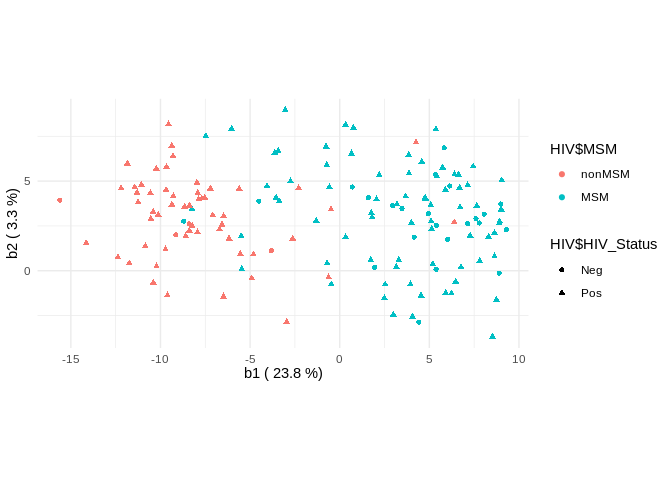
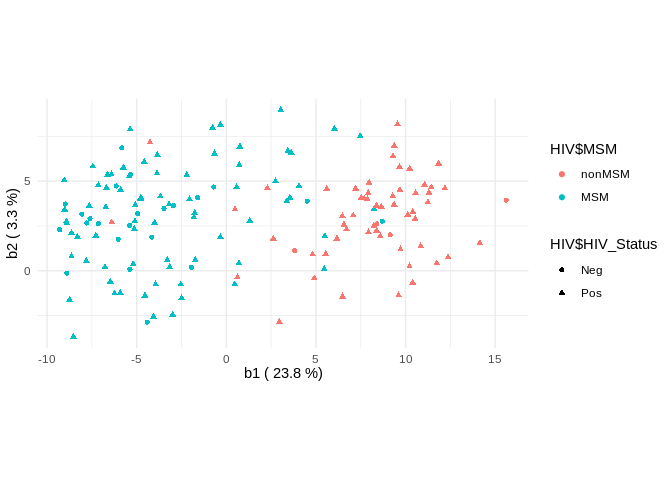
improve readme

diff --git a/README.md b/README.md
@@ -3,34 +3,77 @@
 
 ## Installation
 
-You can install the released version of NearestBalance from
-[CRAN](https://CRAN.R-project.org) with:
+Install dependences if needed:
 
 ``` r
-require(devtools)
-install_bitbucket("knomics/nearestbalance")  
+cran_packages <- c("data.tree", "data.table", "stringr",
+                    "e1071", "ggplot2", "partitions", "devtools")
+cran_packages_to_install <- setdiff(cran_packages, installed.packages())
+install.packages(cran_packages_to_install)
+
+if (! "balance" %in% installed.packages()){
+  devtools::install_github("tpq/balance")
+}
+```
+
+Install the package:
+
+``` r
+devtools::install_bitbucket("knomics/nearestbalance")  
 ```
 
 ## Quick start guide
 
+Please, install several packages to run the examples:
+
+``` r
+packages_for_example <- c("selbal", "zCompositions", "reshape2")
+install.packages(setdiff(packages_for_example, installed.packages()))
+```
+
 Load data for the example
 
-    #> Loading required package: MASS
-    #> Loading required package: NADA
-    #> Loading required package: survival
-    #> 
-    #> Attaching package: 'NADA'
-    #> The following object is masked from 'package:stats':
-    #> 
-    #>     cor
-    #> Loading required package: truncnorm
-    #> No. corrected values:  820
+``` r
+library(NearestBalance)
+library(zCompositions)
+#> Loading required package: MASS
+#> Loading required package: NADA
+#> Loading required package: survival
+#> 
+#> Attaching package: 'NADA'
+#> The following object is masked from 'package:stats':
+#> 
+#>     cor
+#> Loading required package: truncnorm
+library(reshape2)
+library(selbal)
+test_data <- selbal::HIV[1:60]
+abundance <- cmultRepl(test_data)
+#> No. adjusted imputations:  820
+```
 
 ## Principal balance analysis with NearestBalance
 
 <img src="man/figures/README-PBA-1.png" width="100%" />
 
     #> $num
+    #>  [1] "g_Alistipes"                         
+    #>  [2] "g_Barnesiella"                       
+    #>  [3] "g_Bacteroides"                       
+    #>  [4] "g_Odoribacter"                       
+    #>  [5] "g_Parabacteroides"                   
+    #>  [6] "f_Porphyromonadaceae_g_unclassified" 
+    #>  [7] "g_Thalassospira"                     
+    #>  [8] "g_Butyricimonas"                     
+    #>  [9] "g_Anaerostipes"                      
+    #> [10] "g_Paraprevotella"                    
+    #> [11] "f_Erysipelotrichaceae_g_unclassified"
+    #> [12] "g_Streptococcus"                     
+    #> [13] "g_Bifidobacterium"                   
+    #> [14] "g_Blautia"                           
+    #> [15] "g_Collinsella"                       
+    #> 
+    #> $den
     #>  [1] "g_Alloprevotella"                      
     #>  [2] "g_RC9_gut_group"                       
     #>  [3] "g_Prevotella"                          
@@ -50,24 +93,7 @@ Load data for the example
     #> [17] "g_Anaerotruncus"                       
     #> [18] "g_Megasphaera"                         
     #> [19] "g_Phascolarctobacterium"               
-    #> [20] "g_Mitsuokella"                         
-    #> 
-    #> $den
-    #>  [1] "g_Alistipes"                         
-    #>  [2] "g_Barnesiella"                       
-    #>  [3] "g_Bacteroides"                       
-    #>  [4] "g_Odoribacter"                       
-    #>  [5] "g_Parabacteroides"                   
-    #>  [6] "f_Porphyromonadaceae_g_unclassified" 
-    #>  [7] "g_Thalassospira"                     
-    #>  [8] "g_Butyricimonas"                     
-    #>  [9] "g_Anaerostipes"                      
-    #> [10] "g_Paraprevotella"                    
-    #> [11] "f_Erysipelotrichaceae_g_unclassified"
-    #> [12] "g_Streptococcus"                     
-    #> [13] "g_Bifidobacterium"                   
-    #> [14] "g_Blautia"                           
-    #> [15] "g_Collinsella"
+    #> [20] "g_Mitsuokella"
 
 ## Regression analysis
 
@@ -139,33 +165,38 @@ nb_3$nb$b1
 #>  [1] "f_Ruminococcaceae_g_unclassified"    
 #>  [2] "g_Bacteroides"                       
 #>  [3] "g_Succinivibrio"                     
-#>  [4] "f_Erysipelotrichaceae_g_unclassified"
-#>  [5] "g_Subdoligranulum"                   
-#>  [6] "g_Alloprevotella"                    
-#>  [7] "g_Solobacterium"                     
-#>  [8] "g_Blautia"                           
-#>  [9] "f_Defluviitaleaceae_g_Incertae_Sedis"
+#>  [4] "g_Subdoligranulum"                   
+#>  [5] "f_Erysipelotrichaceae_g_unclassified"
+#>  [6] "g_Alistipes"                         
+#>  [7] "g_Alloprevotella"                    
+#>  [8] "o_Clostridiales_g_unclassified"      
+#>  [9] "g_Blautia"                           
 #> [10] "g_Anaerovibrio"                      
-#> [11] "g_Alistipes"                         
-#> [12] "o_Clostridiales_g_unclassified"      
-#> [13] "f_Rikenellaceae_g_unclassified"      
-#> [14] "g_Megasphaera"                       
-#> [15] "g_Prevotella"                        
-#> [16] "g_Escherichia-Shigella"              
+#> [11] "f_Defluviitaleaceae_g_Incertae_Sedis"
+#> [12] "f_Rikenellaceae_g_unclassified"      
+#> [13] "g_Megasphaera"                       
+#> [14] "g_Solobacterium"                     
+#> [15] "g_Escherichia-Shigella"              
+#> [16] "o_NB1-n_g_unclassified"              
 #> [17] "g_Odoribacter"                       
+#> [18] "g_Anaerotruncus"                     
 #> 
 #> $den
-#>  [1] "g_Butyricimonas"                         
-#>  [2] "f_Ruminococcaceae_g_Incertae_Sedis"      
+#>  [1] "f_Ruminococcaceae_g_Incertae_Sedis"      
+#>  [2] "g_Butyricimonas"                         
 #>  [3] "g_Oribacterium"                          
-#>  [4] "g_Dialister"                             
-#>  [5] "g_Streptococcus"                         
+#>  [4] "g_Streptococcus"                         
+#>  [5] "f_vadinBB60_g_unclassified"              
 #>  [6] "g_RC9_gut_group"                         
-#>  [7] "g_Anaeroplasma"                          
-#>  [8] "f_vadinBB60_g_unclassified"              
+#>  [7] "g_Dialister"                             
+#>  [8] "f_Peptostreptococcaceae_g_Incertae_Sedis"
 #>  [9] "g_Dorea"                                 
-#> [10] "f_Peptostreptococcaceae_g_Incertae_Sedis"
-#> [11] "o_Bacteroidales_g_unclassified"
+#> [10] "g_Thalassospira"                         
+#> [11] "g_Anaeroplasma"                          
+#> [12] "f_Erysipelotrichaceae_g_Incertae_Sedis"  
+#> [13] "g_Coprococcus"                           
+#> [14] "g_Elusimicrobium"                        
+#> [15] "g_Brachyspira"
 ```
 
 ## Interpretation of the LDA results
@@ -205,7 +236,8 @@ nb_4$nb$b1
 counts <- HFD[1:193]
 counts_filt <- counts[, colSums(counts > 0) > 0.5*nrow(counts)]
 abundance <- cmultRepl(counts_filt)
-#> No. corrected values:  866
+#> No. adjusted imputations:  866
+
 meta <- HFD[, c("sample_id", "subject_id", "group")]
 pairs <- dcast(meta, subject_id ~ group, value.var = "sample_id")
 
